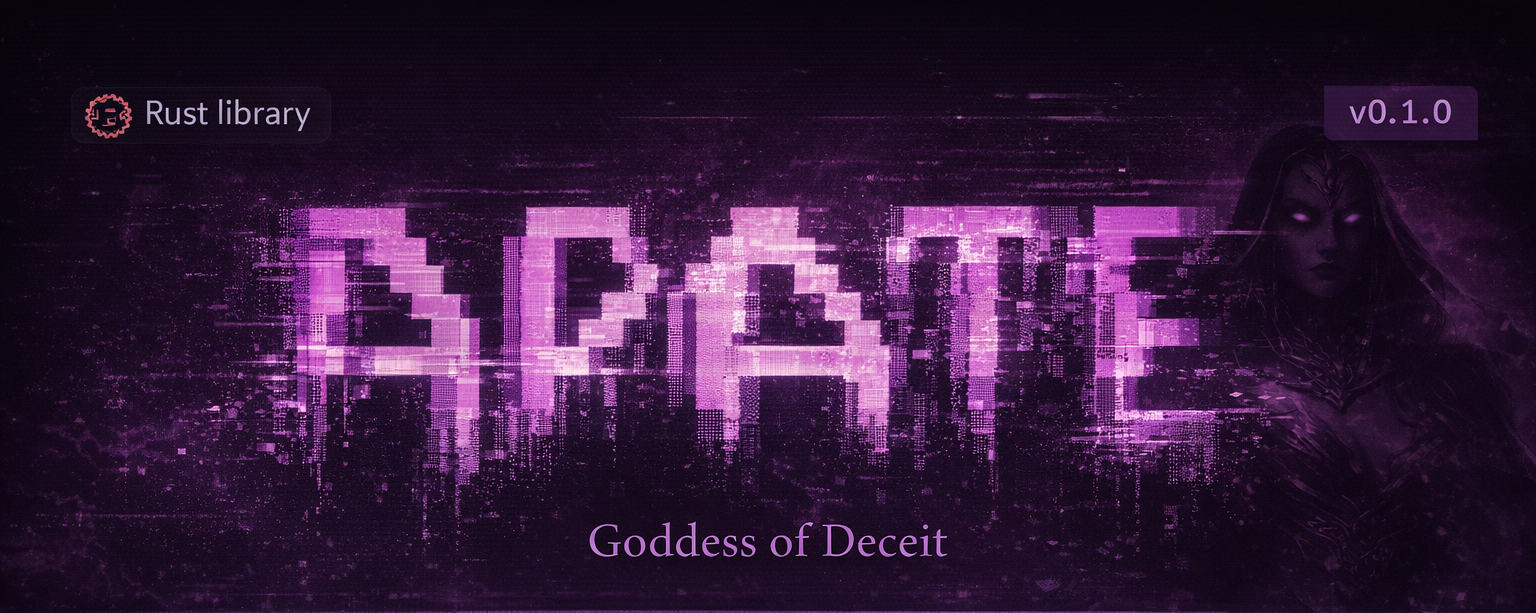
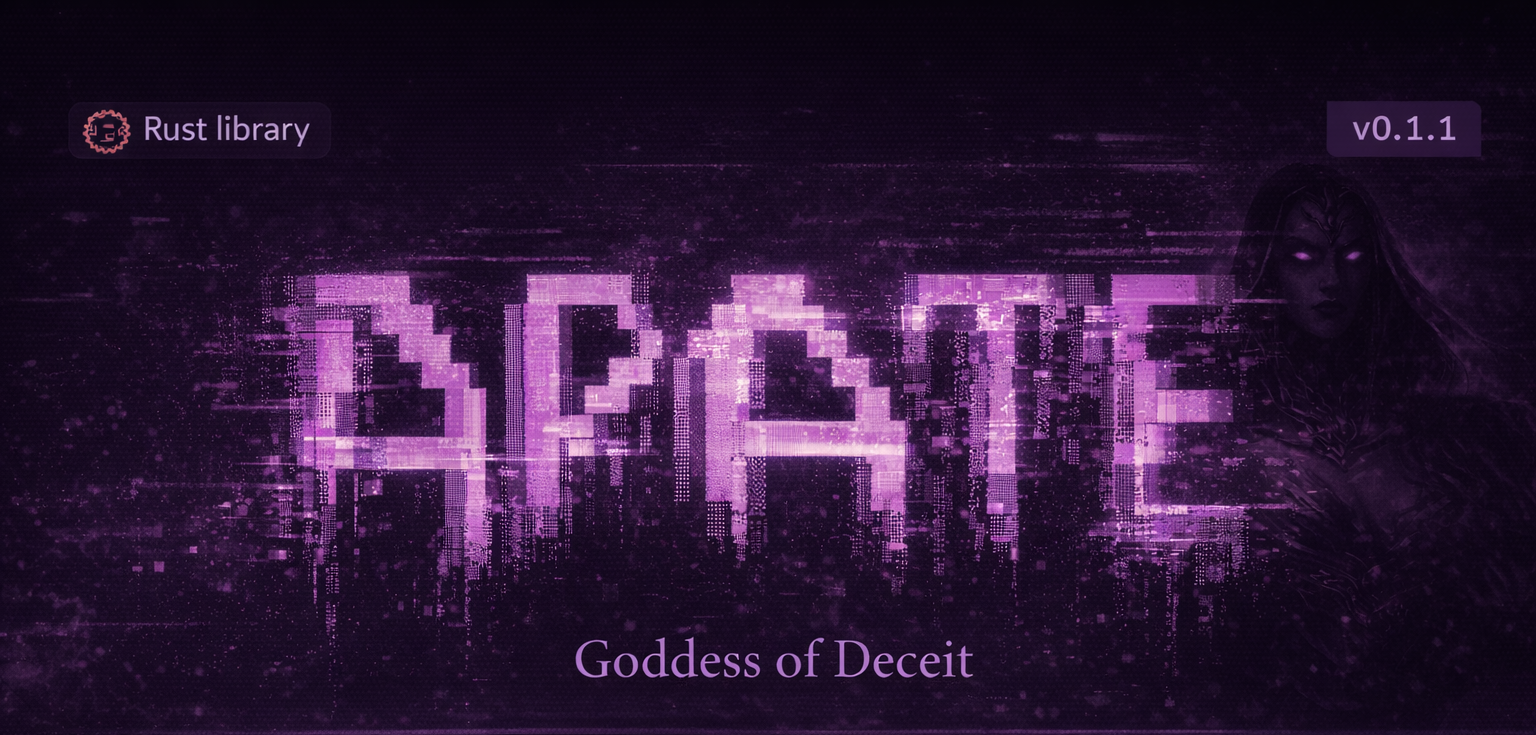
4 (#6)
* remove dead code warnings, untrack docs/INDEX.md, bump to v0.1.1

* fix cross-file rename on Windows (CRLF byte offset mismatch)

RA computes byte offsets from raw file content (CRLF on Windows), but
SemanticRenamer used LF-normalized offsets from proc_macro2 spans. The
cumulative drift from \r bytes caused all cross-file identifier lookups
to silently miss, leaving references unrenamed while definitions were
renamed, breaking compilation of obfuscated multi-file crates.

Fix: normalize RA's byte ranges in LocalDefMap by counting and
subtracting \r bytes before each position at build time.

Self-host now compiles at all 3 obfuscation levels.

diff --git a/src/passes/rename.rs b/src/passes/rename.rs
@@ -176,7 +176,7 @@ impl ObfuscationPass for RenamePass {
             mapping: &mapping,
             cross_file_registry: &cross_file_exports,
             local_struct_names: &collector.local_struct_names,
-            local_trait_names: &collector.local_trait_names,
+
             local_modules: &collector.local_modules,
             external_crates,
             crate_name,
@@ -215,7 +215,7 @@ impl ObfuscationPass for RenamePass {
 
         // For decrypt, all struct/trait names in the mapping are "local" (they were renamed)
         let local_struct_names: HashSet<String> = reverse.values().cloned().collect();
-        let local_trait_names: HashSet<String> = reverse.values().cloned().collect();
+
         // For decrypt, collect local modules from the AST as-is (with obfuscated names)
         let mut decrypt_collector = IdentCollector::new(false, None);
         decrypt_collector.visit_file(ast);
@@ -227,7 +227,7 @@ impl ObfuscationPass for RenamePass {
             mapping: &reverse,
             cross_file_registry: &empty_map,
             local_struct_names: &local_struct_names,
-            local_trait_names: &local_trait_names,
+
             local_modules: &local_modules,
             external_crates: &empty_set,
             crate_name: None,
@@ -345,27 +345,6 @@ impl<'a> SemanticRenamer<'a> {
             if let Some(replacement) = self.mapping.get(original_name) {
                 *ident = syn::Ident::new(replacement, ident.span());
             }
-        }
-    }
-
-    /// Position-based rename with name-based fallback for RA misses.
-    ///
-    /// Used for field access, struct literal fields, and pattern fields — positions
-    /// where RA's type inference may not resolve the receiver but where the name-based
-    /// fallback is safe (these can't be external module paths or crate names).
-    fn try_rename_with_fallback(&self, ident: &mut syn::Ident) {
-        let (byte_start, byte_end) = span_to_byte_range(ident, &self.line_starts);
-        if let Some(original_name) = self.local_def_map.get(&self.query_file, byte_start, byte_end)
-        {
-            if let Some(replacement) = self.mapping.get(original_name) {
-                *ident = syn::Ident::new(replacement, ident.span());
-                return;
-            }
-        }
-        // Fallback: name-based (safe here — fields can't be external paths)
-        let name = ident.to_string();
-        if let Some(replacement) = self.mapping.get(&name) {
-            *ident = syn::Ident::new(replacement, ident.span());
         }
     }
 
@@ -661,7 +640,6 @@ struct IdentCollector {
     body_locals: HashSet<String>,
     derive_idents: HashSet<String>,
     local_struct_names: HashSet<String>,
-    local_trait_names: HashSet<String>,
     local_modules: HashSet<String>,
     /// Item names imported from internal use statements (e.g., `use crate::error::{ApateError, Result}`
     /// → contains "ApateError", "Result"). These need cross-file registry lookups.
@@ -679,7 +657,6 @@ impl IdentCollector {
             body_locals: HashSet::new(),
             derive_idents: HashSet::new(),
             local_struct_names: HashSet::new(),
-            local_trait_names: HashSet::new(),
             local_modules: HashSet::new(),
             imported_items: HashSet::new(),
             crate_name: crate_info.map(|i| i.crate_name.clone()),
@@ -737,14 +714,6 @@ impl IdentCollector {
         }
     }
 
-    /// Check if a trait path refers to a locally-defined trait.
-    fn is_local_trait(&self, path: &syn::Path) -> bool {
-        if let Some(last) = path.segments.last() {
-            self.local_trait_names.contains(&last.ident.to_string())
-        } else {
-            false
-        }
-    }
 }
 
 impl<'ast> Visit<'ast> for IdentCollector {
@@ -804,7 +773,6 @@ impl<'ast> Visit<'ast> for IdentCollector {
 
     fn visit_item_trait(&mut self, node: &'ast syn::ItemTrait) {
         let name = node.ident.to_string();
-        self.local_trait_names.insert(name.clone());
         if !self.is_preserved_public(&node.vis) {
             self.add(&name);
         }
@@ -911,7 +879,6 @@ struct IdentRenamer<'a> {
     /// Full cross-file registry for looking up names accessed through module paths.
     cross_file_registry: &'a HashMap<String, String>,
     local_struct_names: &'a HashSet<String>,
-    local_trait_names: &'a HashSet<String>,
     local_modules: &'a HashSet<String>,
     external_crates: &'a HashSet<String>,
     crate_name: Option<&'a str>,
@@ -943,17 +910,6 @@ impl<'a> IdentRenamer<'a> {
     fn maybe_rename_member_with_cross_file(&self, member: &mut syn::Member) {
         if let syn::Member::Named(ident) = member {
             self.maybe_rename_with_cross_file(ident);
-        }
-    }
-
-    /// Check if a trait path refers to a locally-defined trait.
-    fn is_local_trait(&self, path: &syn::Path) -> bool {
-        if let Some(last) = path.segments.last() {
-            let name = last.ident.to_string();
-            self.local_trait_names.contains(&name)
-                || self.mapping.contains_key(&name)
-        } else {
-            false
         }
     }
 

diff --git a/src/semantic.rs b/src/semantic.rs
@@ -64,6 +64,8 @@ pub struct SemanticAnalyzer {
     vfs: vfs::Vfs,
     /// Map from VFS FileId → relative file path
     file_paths: HashMap<vfs::FileId, PathBuf>,
+    /// Absolute path to the crate root directory
+    crate_dir: PathBuf,
 }
 
 impl SemanticAnalyzer {
@@ -111,6 +113,7 @@ impl SemanticAnalyzer {
             db,
             vfs,
             file_paths,
+            crate_dir: crate_dir.to_path_buf(),
         })
     }
 
@@ -192,7 +195,51 @@ impl SemanticAnalyzer {
             }
         }
 
+        // Normalize byte offsets from CRLF (raw file) to LF (proc_macro2/syn).
+        // RA returns byte ranges based on raw file content (CRLF on Windows),
+        // but proc_macro2 spans use LF-normalized positions. Adjust here so
+        // lookups in SemanticRenamer match correctly.
+        let refs = self.normalize_crlf_offsets(refs, &self.crate_dir);
+
         Ok(LocalDefMap { refs })
+    }
+
+    /// Convert CRLF-based byte offsets to LF-based offsets.
+    ///
+    /// RA returns byte ranges based on raw file content (CRLF on Windows),
+    /// but proc_macro2 spans use LF-normalized positions. For each file,
+    /// count `\r` bytes before each offset position and subtract them.
+    fn normalize_crlf_offsets(
+        &self,
+        refs: HashMap<(PathBuf, u32, u32), String>,
+        crate_dir: &Path,
+    ) -> HashMap<(PathBuf, u32, u32), String> {
+        let mut cr_positions: HashMap<PathBuf, Vec<u32>> = HashMap::new();
+
+        let mut normalized = HashMap::new();
+        for ((file, start, end), name) in refs {
+            let crs = cr_positions.entry(file.clone()).or_insert_with(|| {
+                let abs_path = crate_dir.join(&file);
+                match std::fs::read(&abs_path) {
+                    Ok(contents) => contents
+                        .iter()
+                        .enumerate()
+                        .filter(|(_, b)| **b == b'\r')
+                        .map(|(i, _)| i as u32)
+                        .collect(),
+                    Err(_) => Vec::new(),
+                }
+            });
+
+            let cr_before_start = crs.partition_point(|&pos| pos < start) as u32;
+            let cr_before_end = crs.partition_point(|&pos| pos < end) as u32;
+
+            normalized.insert(
+                (file, start - cr_before_start, end - cr_before_end),
+                name,
+            );
+        }
+        normalized
     }
 
     /// Collect all reference sites for a single definition within a search scope.

diff --git a/CHANGELOG.md b/CHANGELOG.md
@@ -1,5 +1,16 @@
 # Changelog
 
+## [0.1.1] — 2026-04-06
+
+### Fixed
+- **Cross-file rename on Windows** — RA byte offsets were CRLF-based but SemanticRenamer used LF-normalized offsets, causing all cross-file identifier references to silently miss. Self-hosting now compiles at all 3 levels.
+- **String pass memory leak** — replaced `Box::leak` + `from_utf8_unchecked` with `std::sync::LazyLock`. Obfuscated strings now decode once and cache, no unsafe code in generated output.
+- **Dead code warnings** — removed unused `local_trait_names` field and `is_local_trait` methods from rename pass.
+
+### Changed
+- Added `rust-toolchain.toml` and `rustfmt.toml` to pin toolchain (1.91.1) and formatter (edition 2024) across contributors.
+- Removed `docs/development/INDEX.md` from git tracking.
+
 ## [0.1.0] — 2026-03-24
 
 Initial release. The goddess awakens.
